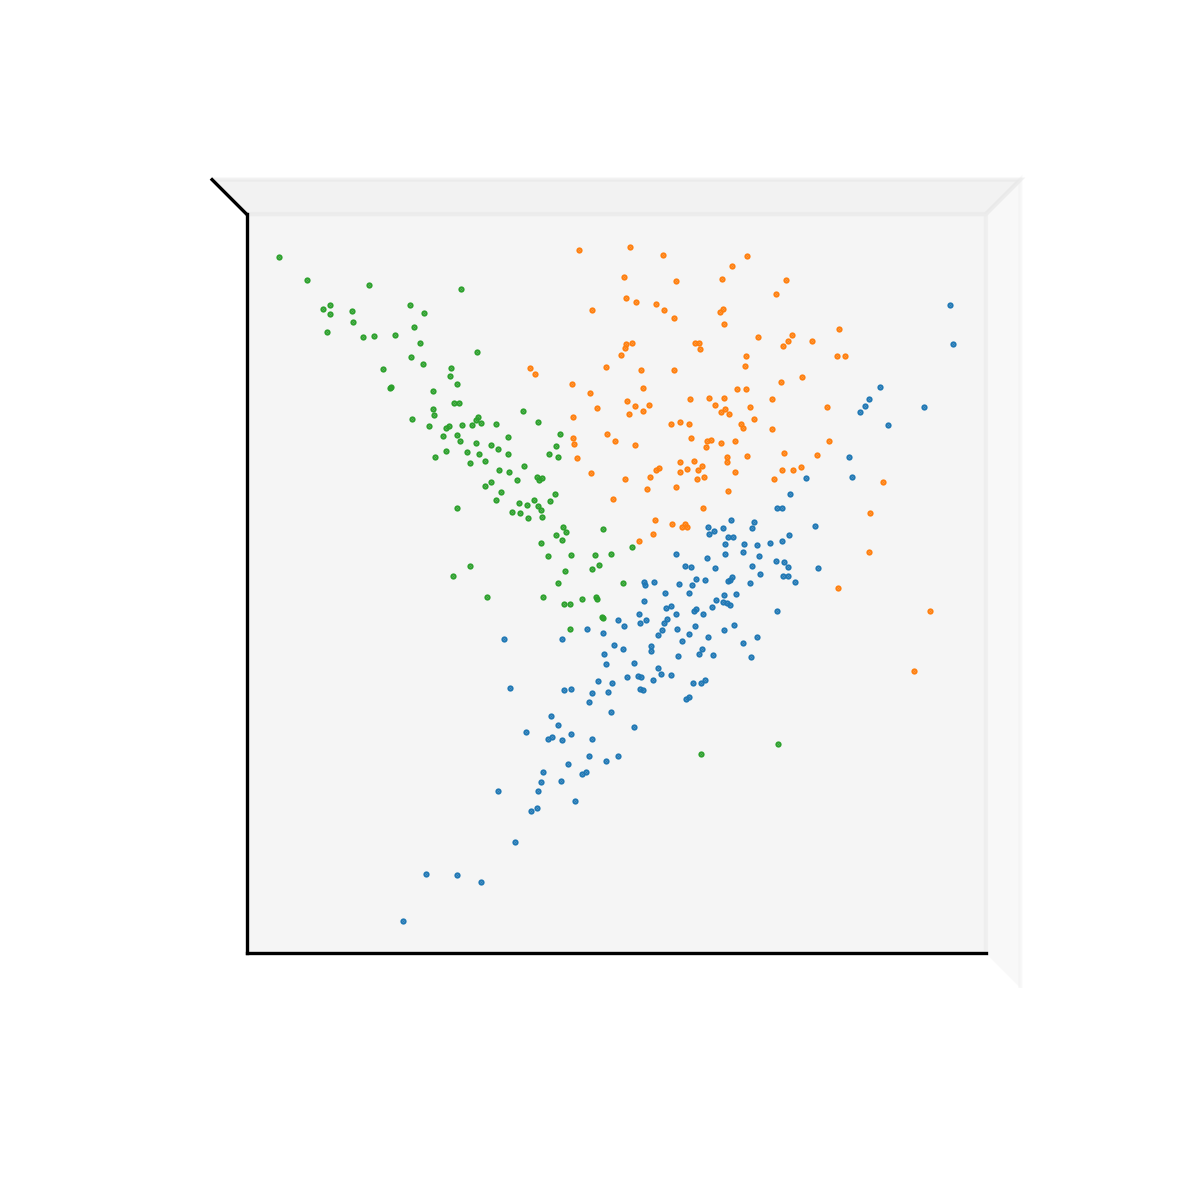
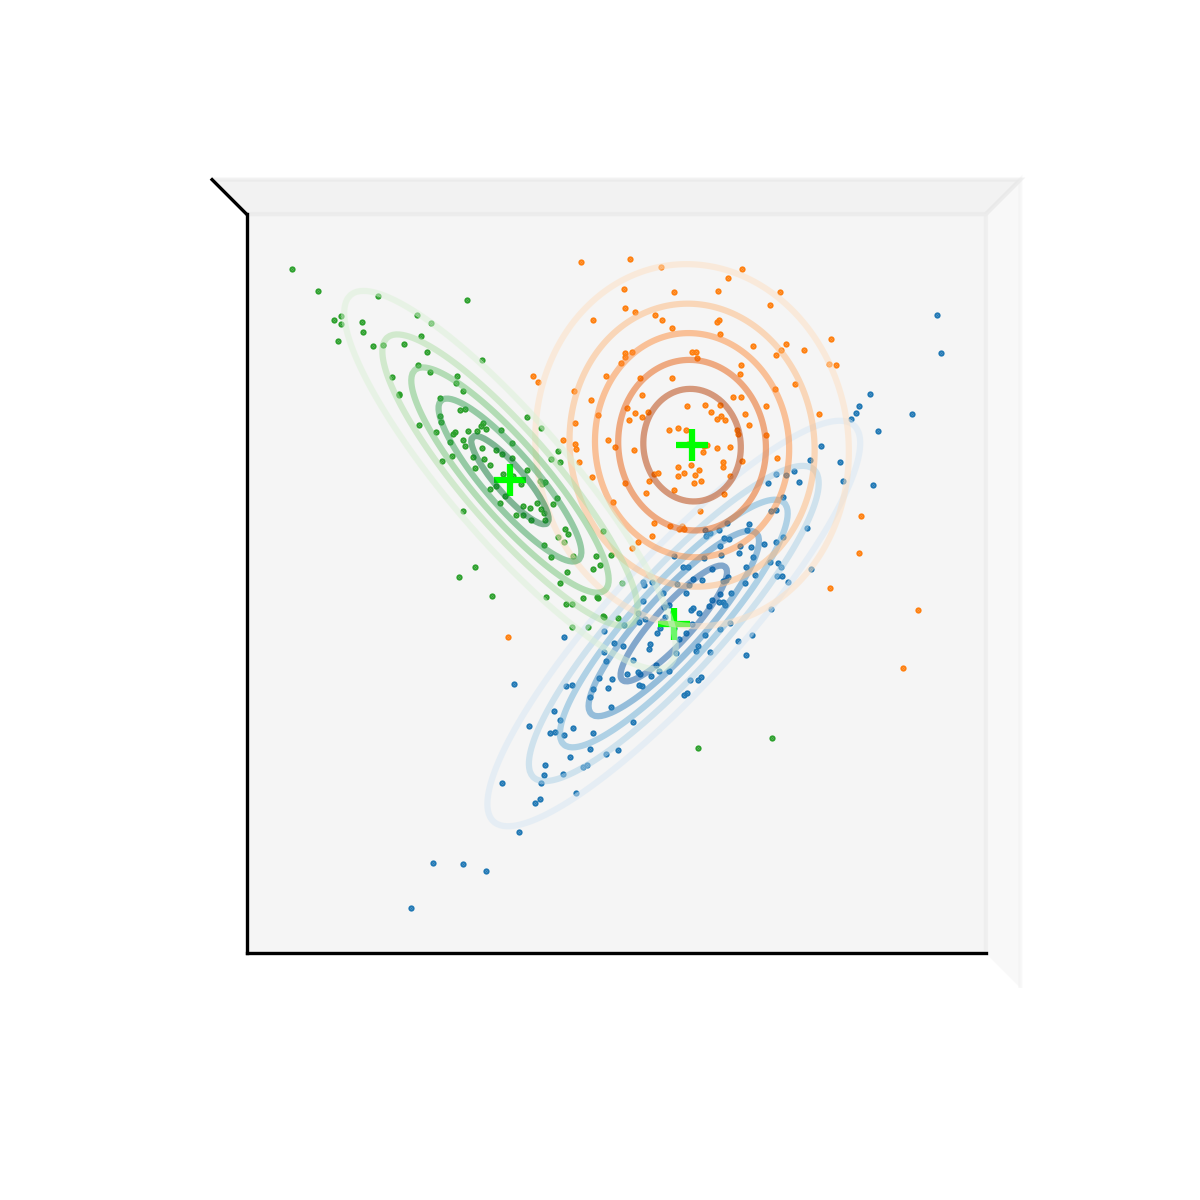
Plot contour lines

Changed region(s): [[0.3083, 0.2158, 0.74, 0.6783], [0.37, 0.4625, 0.4008, 0.4933], [0.2775, 0.2467, 0.3083, 0.2775]]

diff --git a/ex5/i_tzimas/GMMVB.py b/ex5/i_tzimas/GMMVB.py
@@ -27,6 +27,7 @@ class GMMVB:
         self.K = K
         self.eps = np.spacing(1)
         self.filename = filename
+        self.hdi = []
 
     def init_params(self, X):
         """Initialize the parameters.
@@ -177,7 +178,7 @@ class GMMVB:
             None.
         """
         # Reshape data X if it is in less than 3 dimensions
-        for i in range(X.shape[1], 3):
+        for _ in range(X.shape[1], 3):
             X = np.hstack([X, np.zeros((X.shape[0], 1))])
 
         # Execute classification
@@ -190,13 +191,30 @@ class GMMVB:
         fig.add_axes(ax)
         # Use the custome color list.
         cm = plt.get_cmap("tab10")
+
         # Remove ticks
         ax.set_xticks([])
         ax.set_yticks([])
         ax.set_zticks([])
+
         # Change the perspective
         ax.view_init(elev=90, azim=90, roll=180)
-        for k in range(len(label_frequency_desc)):
+
+        # Plot clusters
+        cmaps = ["Blues", "Greens", "Oranges", "YlOrBr"]
+
+        # Meshgrid
+        if self.D == 1:
+            x_grid = np.linspace(np.min(X), np.max(X), 200)
+        else:
+            x_grid, y_grid = np.meshgrid(
+                np.linspace(np.min(X[:, 0]), np.max(X[:, 0]), 200),
+                np.linspace(np.min(X[:, 1]), np.max(X[:, 1]), 200),
+            )
+            xy = np.stack([x_grid.ravel(), y_grid.ravel()]).T
+
+        for _, k in enumerate(label_frequency_desc):
+            # Plot colored data points
             cluster_indexes = np.where(labels == label_frequency_desc[k])[0]
             ax.plot(
                 X[cluster_indexes, 0],
@@ -206,6 +224,41 @@ class GMMVB:
                 ms=0.5,
                 color=cm(k),
             )
+
+            # Plot centroid
+            mean = [self.m[k, i] for i in range(self.D)] + [0] * (3 - self.D)
+            ax.scatter(
+                mean[0],
+                mean[1],
+                mean[2],
+                zorder=3,
+                marker="+",
+                c="lime",
+                s=60,
+            )
+
+            # Calculate the GMM PDF
+            pdf = multivariate_normal(
+                self.m[k, : self.D], cov=la.pinv(self.nu[k] * self.W[k])
+            )
+
+            # Plot contour
+            if self.D == 1:
+                pdf = pdf.pdf(x_grid)
+                plt.plot(x_grid, pdf, color=cm(k))
+            else:
+                pdf = pdf.pdf(np.reshape(xy, (-1, self.D)))
+                ax.contour(
+                    x_grid,
+                    y_grid,
+                    np.reshape(pdf, x_grid.shape),
+                    cmap=cmaps[k],
+                    offset=0,
+                    alpha=0.5,
+                    levels=5,
+                )
+
+        # Save plot to file
         fig.savefig(self.filename)
 
     def execute(self, X, iter_max, thr):
@@ -246,18 +299,27 @@ class GMMVB:
                     )
                 )
             )
-            # Visualization is performed when the convergence condition is met or when the upper
+            # Loop breaks when the convergence condition is met or when the upper
             # limit is reached
             if (np.abs(log_likelihood_list[i] - log_likelihood_list[i + 1]) < thr) or (
                 i == iter_max - 1
             ):
                 print(f"VB has stopped after {i + 1} iterations.")
-                self.visualize(X)
                 break
 
+        # Highest Density Interval
 
-def main(K):
-    return GMMVB(K)
+        # Visualisation
+        self.visualize(X)
+
+    def _calculate_hdi(self, X):
+        """Calculate the Highest Density Interval (HDI).
+
+        Args:
+            X (numpy ndarray): Input data whose size is (N, D).
+        Returns:
+            None.
+        """
 
 
 if __name__ == "__main__":
